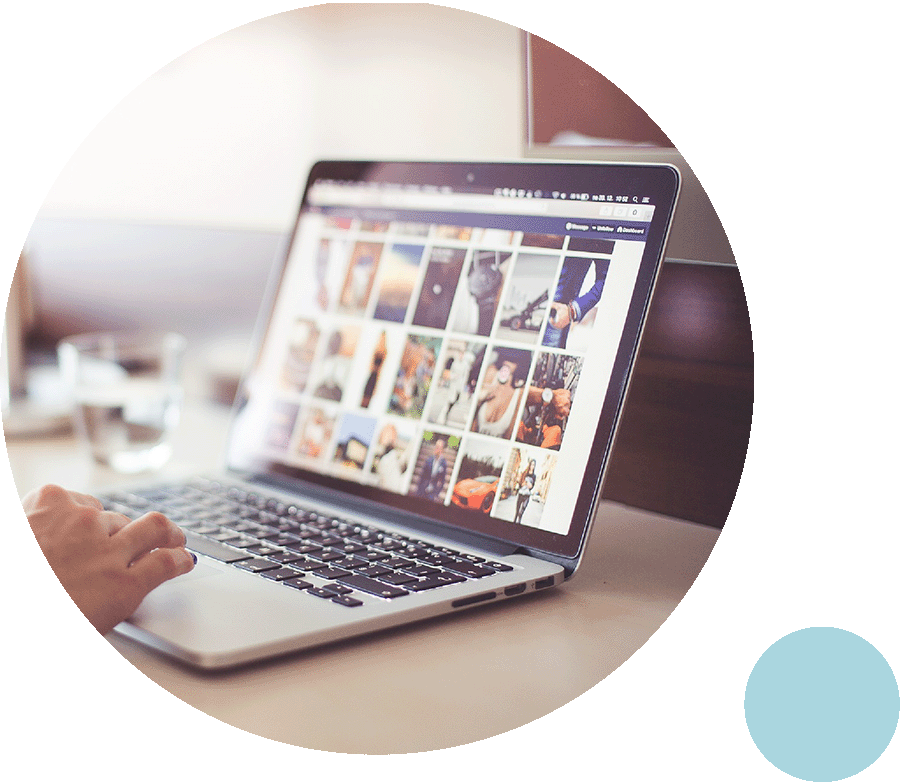
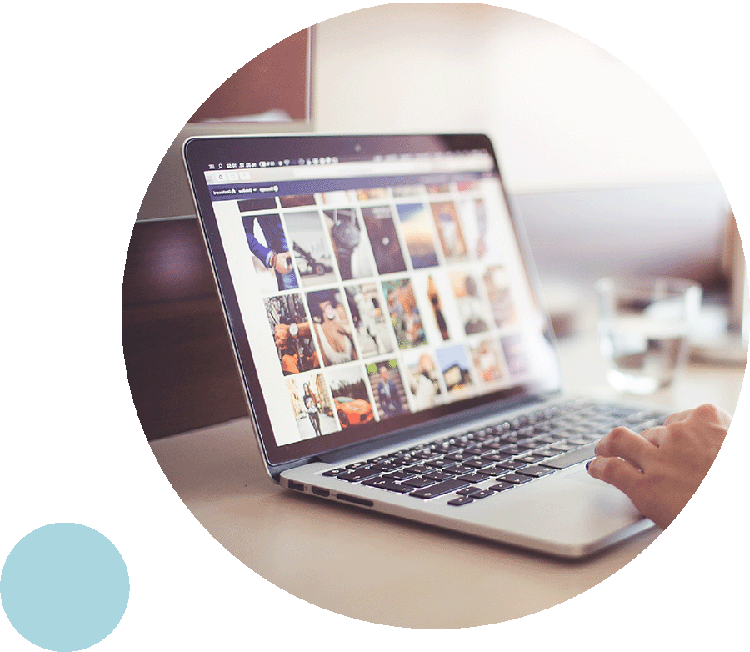
optimize images

diff --git a/src/pages/index.html b/src/pages/index.html
@@ -6,6 +6,7 @@
         <h1 class="show-for-medium">Sasha Castillo - UX Designer</h1>
         <h1 class="show-for-small-only">Sasha Castillo<br />UX Designer</h1>
         <p class="lead subheader">UX Designer with strengths in solving design problems and effectively adressing user needs that result in exceptional user experiences.</p>
+        <p><a class="button button-main show-for-small-only" href="/services.html">Work with me</a></p>
       </div>
     </section>
   </article>
@@ -17,7 +18,7 @@
             <div class="block-section">
               <h3>Facilities Website</h3>
               <hr class="hr-black">
-              <p class="show-for-medium">Website re-design for the<br /> Facilities department</p>
+              <p class="show-for-large">Website re-design for the<br /> Facilities department</p>
             </div>
             <div class="image-overlay">
               <img src="assets/img/homepage/box-art1.svg" alt="decorative wave" width="100%" height="auto" />
@@ -30,7 +31,7 @@
             <div class="block-section">
               <h3>Curated Books Portal</h3>
               <hr class="hr-black">
-              <p class="show-for-medium">Homepage improvement<br /> and re-design</p>
+              <p class="show-for-large">Homepage improvement<br /> and re-design</p>
             </div>
             <div class="image-overlay">
               <img src="assets/img/homepage/box-art2.svg" alt="Decorative wave" width="100%" height="auto" />
@@ -43,7 +44,7 @@
             <div class="block-section">
               <h3>Library Map</h3>
               <hr class="hr-black">
-              <p class="show-for-medium">Improving wayfinding <br />experience for the library</p>
+              <p class="show-for-large">Improving wayfinding <br />experience for the library</p>
             </div>
             <div class="image-overlay">
               <img src="assets/img/homepage/box-art3.svg" alt="Decorative Wave" width="100%" height="auto" />
@@ -67,7 +68,7 @@
           </p>
           <p>My areas of expertise include User Experience Design, User Interface Design, Product Management, Project Management, Usability Research, and Illustration. Allow me to bring my expertise to your project!
           </p><br />
-          <p> <a class="button button-main" href="/contact.html"><strong>Work with me!</strong></a></p>
+          <p> <a class="button button-main" href="/services.html"><strong>Work with me!</strong></a></p>
         </div>
       </div>
     </section>

diff --git a/src/pages/work.html b/src/pages/work.html
@@ -22,7 +22,7 @@
           <div class="medium-7 cell">
             <a href="work/staff-picks-landing-page.html"><h2>Curated Books Portal</h2></a>
             <p><small>Completed December 2020</small></p>
-            <p class="secondary-lead">Existing design of a library website page curated by the library staff had issues that prevented users from understanding and enjoying the feature. I have completed a round of improvements and re-designs.</p>
+            <p class="secondary-lead">A library website page curated by the library staff had issues that prevented users from understanding and enjoying the feature. I have completed a round of improvements and re-designs.</p>
             <p><a class="button button-main" href="work/staff-picks-landing-page.html">View Project</a></p>
           </div>
         </section>
@@ -44,7 +44,7 @@
           <div class="medium-7 cell">
             <a href="work/library-floor-map.html"><h2>Library Floor Map</h2></a>
             <p class="secondary-lead"><small>Completed February 2019</small></p>
-            <p>Wayfinding for the library users has consistently been a challenge. I worked on a team to solve key issues by completely re-designing the old map and improving wayfinding experience for the library patrons.</p>
+            <p>I worked on a team to solve key issues by re-designing the old map and improving wayfinding experience for the library patrons.</p>
             <p><a class="button button-main" href="work/library-floor-map.html">View Project</a></p>
           </div>
         </section>
@@ -55,7 +55,7 @@
           <div class="medium-7 cell">
             <a href="work/library-website-menu.html"><h2>Library Website Menu</h2></a>
             <p><small>Completed July 2018</small></p>
-            <p class="secondary-lead">Users complained that they coudn't find what they want. Finding information about library services was essential to the success of the website, so the team set out to re-design the library website global menu.</p>
+            <p class="secondary-lead">Finding information about library services was essential to the success of the website, so the team set out to re-design the library website global menu.</p>
             <p><a class="button button-main" href="work/library-website-menu.html">View Project</a></p>
           </div>
         </section>

diff --git a/src/pages/services.html b/src/pages/services.html
@@ -1,4 +1,4 @@
-{{> header-work}}
+{{> header-services}}
 <main>
   <header class="grid-container fluid text-center text-bottom header-section featured-block-lght">
     <h1>Work With Me</h1>
@@ -56,8 +56,8 @@
               <img class="show-for-medium" src="assets/img/services/small-checkbox-circle.png" alt="Blue circle" width="100%" height="auto" />
             </div>
             <div class="medium-8 cell">
-              <h3 class="large-heading">*Get a Complimentary Expert Review</h3>
-              <p>I will review your website or app and provide initial recommendations on how to improve it. *This option is only for those who completed the Free 20 minute consultation. </p>
+              <h3 class="large-heading">*Get a Complementary Expert Review</h3>
+              <p>I will review your website or app and provide initial recommendations on how to improve it. *This option is only for those who completed the free 20 minute consultation. </p>
               <p> <a class="button button-main" href="mailto:me@sashacastillo.com"><strong>Request</strong></a></p>
             </div>
           </div>
@@ -80,7 +80,7 @@
           <div class="grid-x grid-margin-x">
             <div class="medium-12 cell">
               <h2 class="large-heading">My Services</h2>
-              <img class="hr-neon" src="assets/img/wave-divider.svg" alt="wave icon" width="100%" height="auto" />
+              <img class="hr-neon" src="assets/img/wave-divider-wht.svg" alt="wave icon" width="100%" height="auto" />
             </div>
             <div class="medium-6 large-4 cell">
               <div class="card">

diff --git a/src/assets/scss/custom/_scstyle.scss b/src/assets/scss/custom/_scstyle.scss
@@ -47,7 +47,8 @@ p {
 }
 
 p.lead {
-  font-family: 'Source Sans Pro', sans-serif;
+  // font-family: 'Source Sans Pro', sans-serif;
+  font-family: 'PT Serif', serif;
 }
 
 a {
@@ -77,6 +78,7 @@ video {
       }
       @include breakpoint (small only) {
         padding: 0.6rem 0.5rem;
+        font-size: 0.9em;
       }
       &.button-main {
         color: $white;
@@ -92,8 +94,9 @@ video {
     top: 0;
     left: 0;
     margin: -0.2rem 0 0 -2.4rem;
-    @include breakpoint(medium down) {
-      width: 200px;
+    @include breakpoint(small only) {
+      width: 190px;
+      margin: -0.2rem 0 0 -3rem;
     }
   }
 
@@ -142,12 +145,14 @@ video {
 
 .header-section {
   padding: 4.7rem 0 4.7rem;
-  background-color: $cream;
-      border-bottom: 4px solid $clearwater;
+  // background-color: $cream;
+  background-size: cover;
+  background-image: url("../../assets/img/header-pattern.svg");
+      // border-bottom: 4px solid $clearwater;
 }
 
 .featured-block {
-  border-top: 5px solid $success-color;
+  // border-top: 5px solid $success-color;
   background-color: lighten($clearwater, 5%);
 }
 
@@ -326,8 +331,10 @@ video {
       }
 
       .overflow-cell img {
-        margin-top: -30rem;
-        width: 55%;
+        // margin-top: -30rem;
+        // width: 55%;
+        margin-top: -25rem;
+        width: 50%;
         float: right;
       }
     }
@@ -706,6 +713,9 @@ img.hr-neon {
   background-color: $cream;
   padding: 4em;
   margin-bottom: -2em;
+  @include breakpoint(small only) {
+    padding: 2em;
+  }
   p {
     font-size: 1.5rem;
     color: #194B46;

diff --git a/src/partials/header-services.html b/src/partials/header-services.html
@@ -1,0 +1,20 @@
+<header data-sticky-container>
+  <div class="top-bar" class="sticky" data-sticky data-margin-top="0">
+    <a title="Go Home" href="/">
+      <div class="top-bar-left">
+        <img class="logo" src="../assets/img/homepage/sasha-logo-v2.svg" alt="Sasha Castillo Logo" width="300" />
+      </div>
+    </a>
+    <div class="top-bar-right">
+      <nav>
+        <ul class="menu align-right">
+          <li class="show-for-medium"><a href="/">Home</a></li>
+          <li><a href="/work.html">Projects</a></li>
+          <li><a href="/about.html">About</a></li>
+          <!-- <li><a href="/contact.html">Contact</a></li> -->
+          <li><a class="button button-main" href="/services.html">Work with me</a></li>
+        </ul>
+      </nav>
+    </div>
+  </div>
+</header>

diff --git a/src/styleguide/template.html b/src/styleguide/template.html
@@ -6,7 +6,7 @@
     <title>Style Guide</title>
     <link rel="stylesheet" href="assets/css/app.css">
     <link rel="stylesheet" href="assets/css/custom/sc-style.css">
-    <link rel="stylesheet" href="//cdnjs.cloudflare.com/ajax/libs/highlight.js/8.9.1/styles/github.min.css">
+    <!-- <link rel="stylesheet" href="//cdnjs.cloudflare.com/ajax/libs/highlight.js/8.9.1/styles/github.min.css"> -->
 
     <!-- Style guide-specific CSS goes here. -->
     <style>

diff --git a/src/partials/header.html b/src/partials/header.html
@@ -16,7 +16,7 @@
           <li><a href="/work.html">Projects</a></li>
           <li><a href="/about.html">About</a></li>
           <!-- <li><a href="/contact.html">Contact</a></li> -->
-          <li><a class="button button-main" href="/services.html">Work with me</a></li>
+          <li><a class="button button-main show-for-medium" href="/services.html">Work with me</a></li>
         </ul>
       </nav>
     </div>

diff --git a/src/assets/scss/app.scss b/src/assets/scss/app.scss
@@ -37,7 +37,7 @@
 // @include foundation-media-object;
 // @include foundation-orbit;
 // @include foundation-responsive-embed;
-// @include foundation-tabs;
+@include foundation-tabs;
 @include foundation-thumbnail;
 // Menu-based containers
 @include foundation-menu;

diff --git a/src/assets/scss/_settings.scss b/src/assets/scss/_settings.scss
@@ -72,6 +72,7 @@ $foundation-palette: (
   primary: #000000,
   secondary: #ffffff,
   success: #4B878B, //teal
+  warning: #cccccc,
   warning: #ffae00,
   alert: #cc4b37,
 );
